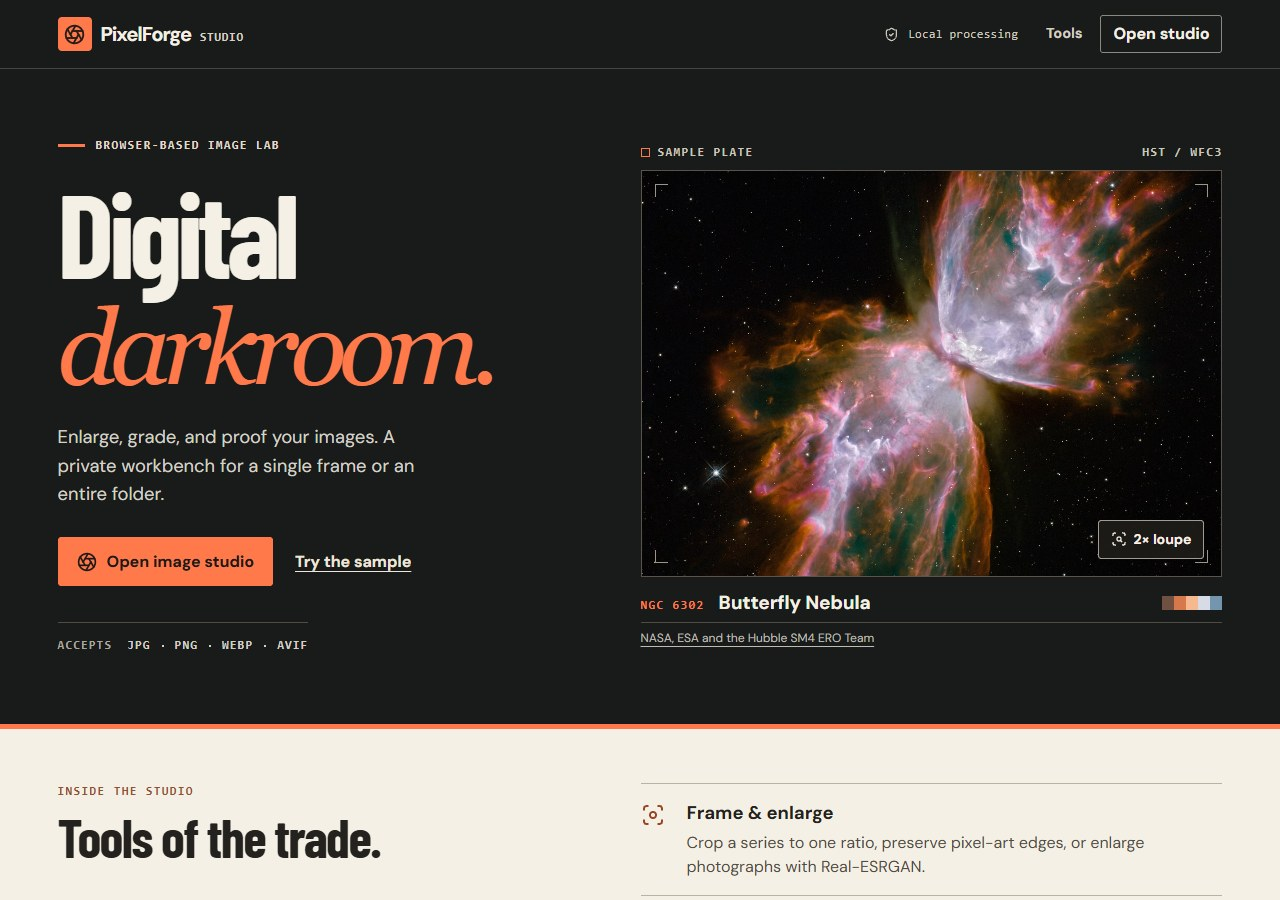
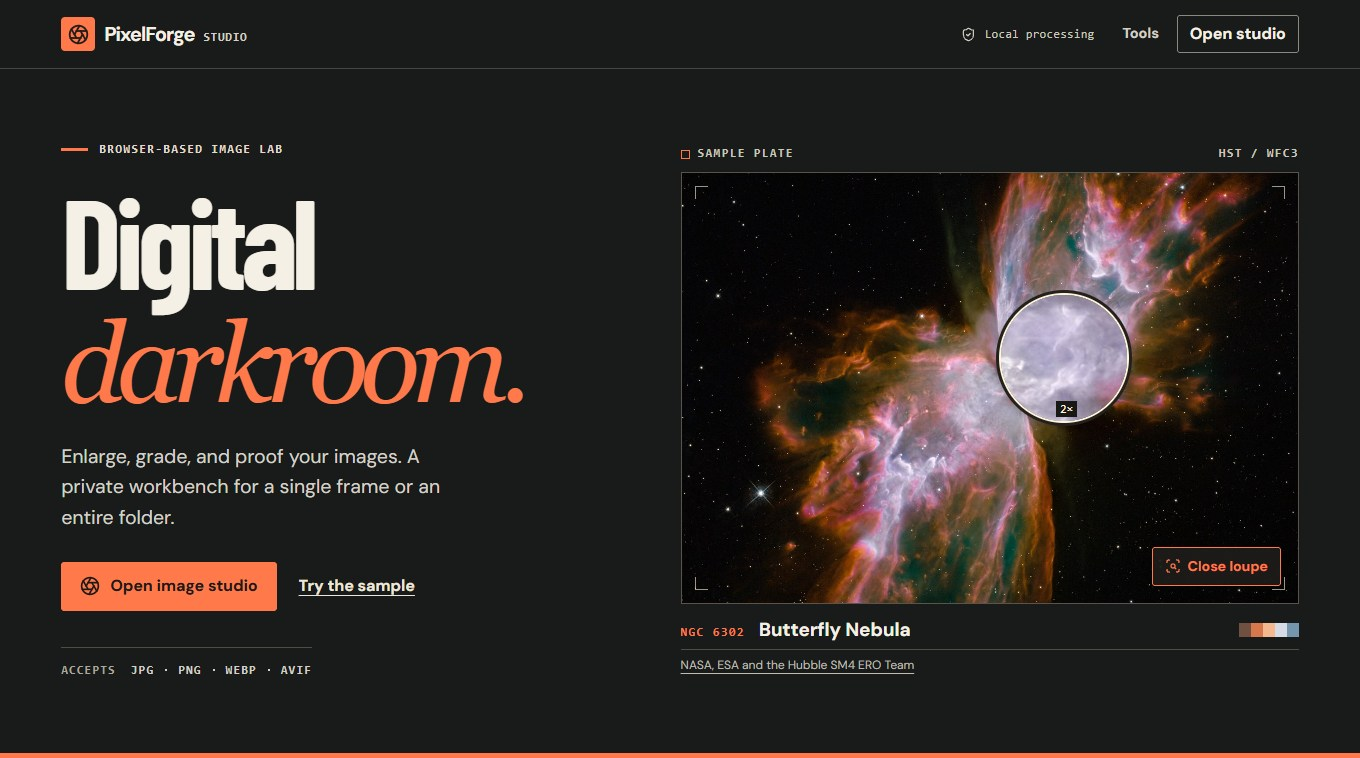
Show current studio screens and reproducible image upscaling comparisons

diff --git a/README.md b/README.md
@@ -4,7 +4,9 @@ A browser-based darkroom for resizing, grading, upscaling, and proofing batches 
 
 [![Verify PixelForge](https://github.com/PRABHMANNAT/Pixel-Studio-Image-upscaler/actions/workflows/verify.yml/badge.svg?branch=main)](https://github.com/PRABHMANNAT/Pixel-Studio-Image-upscaler/actions/workflows/verify.yml)
 
-![PixelForge's photographic landing page featuring Hubble's Butterfly Nebula and an interactive inspection loupe](docs/darkroom-home.jpg)
+[Make your first proof](#make-your-first-proof) · [Compare real exports](#compare-real-exports) · [File and batch limits](#files-privacy-and-limits)
+
+![PixelForge’s landing page with the 2× inspection loupe open over the Butterfly Nebula](docs/darkroom-home.jpg)
 
 ## Make your first proof
 
@@ -22,7 +24,18 @@ npm run dev
 3. Choose **Start batch**. Drag the light-table divider or focus it and use the arrow keys. Open **Luminance histogram** to inspect the original or output.
 4. Download the file from its queue row. **Download all as ZIP** keeps nested folders, and **Download batch report** saves a CSV of filenames, dimensions, sizes, and statuses.
 
-![The light table comparing the Butterfly Nebula with its exported monochrome PNG, alongside the inspector and luminance histogram](docs/studio-preview.jpg)
+![The dark light table at 175% zoom, with the original Butterfly Nebula on the left, its monochrome PNG on the right, and the output luminance histogram below](docs/studio-preview.jpg)
+
+The **Monochrome print** recipe retains the original 1400 × 1632 dimensions. Zooming changes how closely you inspect the proof. Focus the zoomed image and use the arrow keys to pan.
+
+<details>
+<summary>View the mobile studio</summary>
+
+<p>On a narrow screen, use <strong>Light table</strong>, <strong>Inspector</strong>, <strong>Export</strong>, and <strong>Queue</strong> to jump between sections. Here the light table displays the finished PNG on a black backdrop.</p>
+
+<img src="docs/mobile-studio.jpg" width="320" alt="Mobile PixelForge workspace showing its section navigation, import buttons, and output-only monochrome proof" />
+
+</details>
 
 ## Choose the right processing method
 
@@ -33,6 +46,18 @@ npm run dev
 | AI Upscale · Real-ESRGAN x2plus | Enhancing a small photograph | Runs a native 2× model pass, then resamples to the requested dimensions. Tries WebGPU and can fall back to WebAssembly. |
 
 The first AI run downloads approximately 64 MiB of model weights from Hugging Face. The worker verifies their SHA-256 checksum and can reuse the browser cache. Fast Resize and all image controls run locally with the application assets. [Model provenance](docs/model.md)
+
+### Compare real exports
+
+**Photograph at 2×.** Follow the bright curved rim just above the center of the nebula. Lanczos gives it a soft transition. Real-ESRGAN draws a sharper edge in this crop. Both PNGs started with the same 96 × 64 pixels and were exported at 192 × 128, then displayed at the same magnification. [Get the nebula input PNG](docs/examples/nebula.png?raw=1)
+
+![Two 2× exports of the same nebula crop. The bright rim appears softer with Lanczos on the left and more sharply defined with Real-ESRGAN x2plus on the right.](docs/photo-methods.png)
+
+**Pixel art at 4×.** Look at the crescent moon and the steps in the observatory dome. Lanczos blends neighboring colors. The **Pixel art 4×** recipe turns each original pixel into a solid 4 × 4 block. Both exports are 160 × 104. [Get the observatory input PNG](docs/examples/observatory.png?raw=1)
+
+![Two 4× exports of a 40 × 26 observatory sprite. Lanczos blends the stars and dome edges, while nearest neighbor preserves the original color blocks.](docs/pixel-methods.png)
+
+To reproduce a pair, import its input PNG and select **Studio defaults** under **Processing recipe**. Run **Fast Resize** at the indicated size. In the completed queue row, choose **Make new version**, then run **AI Upscale** at 2× for the photograph or **Pixel art 4×** for the sprite. Both exports stay in the queue.
 
 ## Workbench controls
 
@@ -76,6 +101,6 @@ The production build writes a static site to `out/`. Run `npm run preview` to in
 
 ## Credits
 
-The sample is Hubble’s observation of NGC 6302, credited to **NASA, ESA and the Hubble SM4 ERO Team**. The bundled JPEG is resized from the original. The workspace screenshot includes a monochrome rendition. [Original photograph](https://esahubble.org/images/heic0910h/) · [ESA/Hubble usage terms](https://esahubble.org/copyright/) · [CC BY 4.0](https://creativecommons.org/licenses/by/4.0/)
+The sample is Hubble’s observation of NGC 6302, credited to **NASA, ESA and the Hubble SM4 ERO Team**. The bundled JPEG is resized from the original. The desktop and mobile proofs use a monochrome rendition. The 96 × 64 comparison input is a cropped, downsampled derivative of the same photograph. [Original photograph](https://esahubble.org/images/heic0910h/) · [ESA/Hubble usage terms](https://esahubble.org/copyright/) · [CC BY 4.0](https://creativecommons.org/licenses/by/4.0/)
 
 The interface uses Barlow Condensed and DM Sans. Licenses for the fonts, Three.js, Motion, and bundled image runtimes are included in the repository. [Third-party notices](public/notices/)
